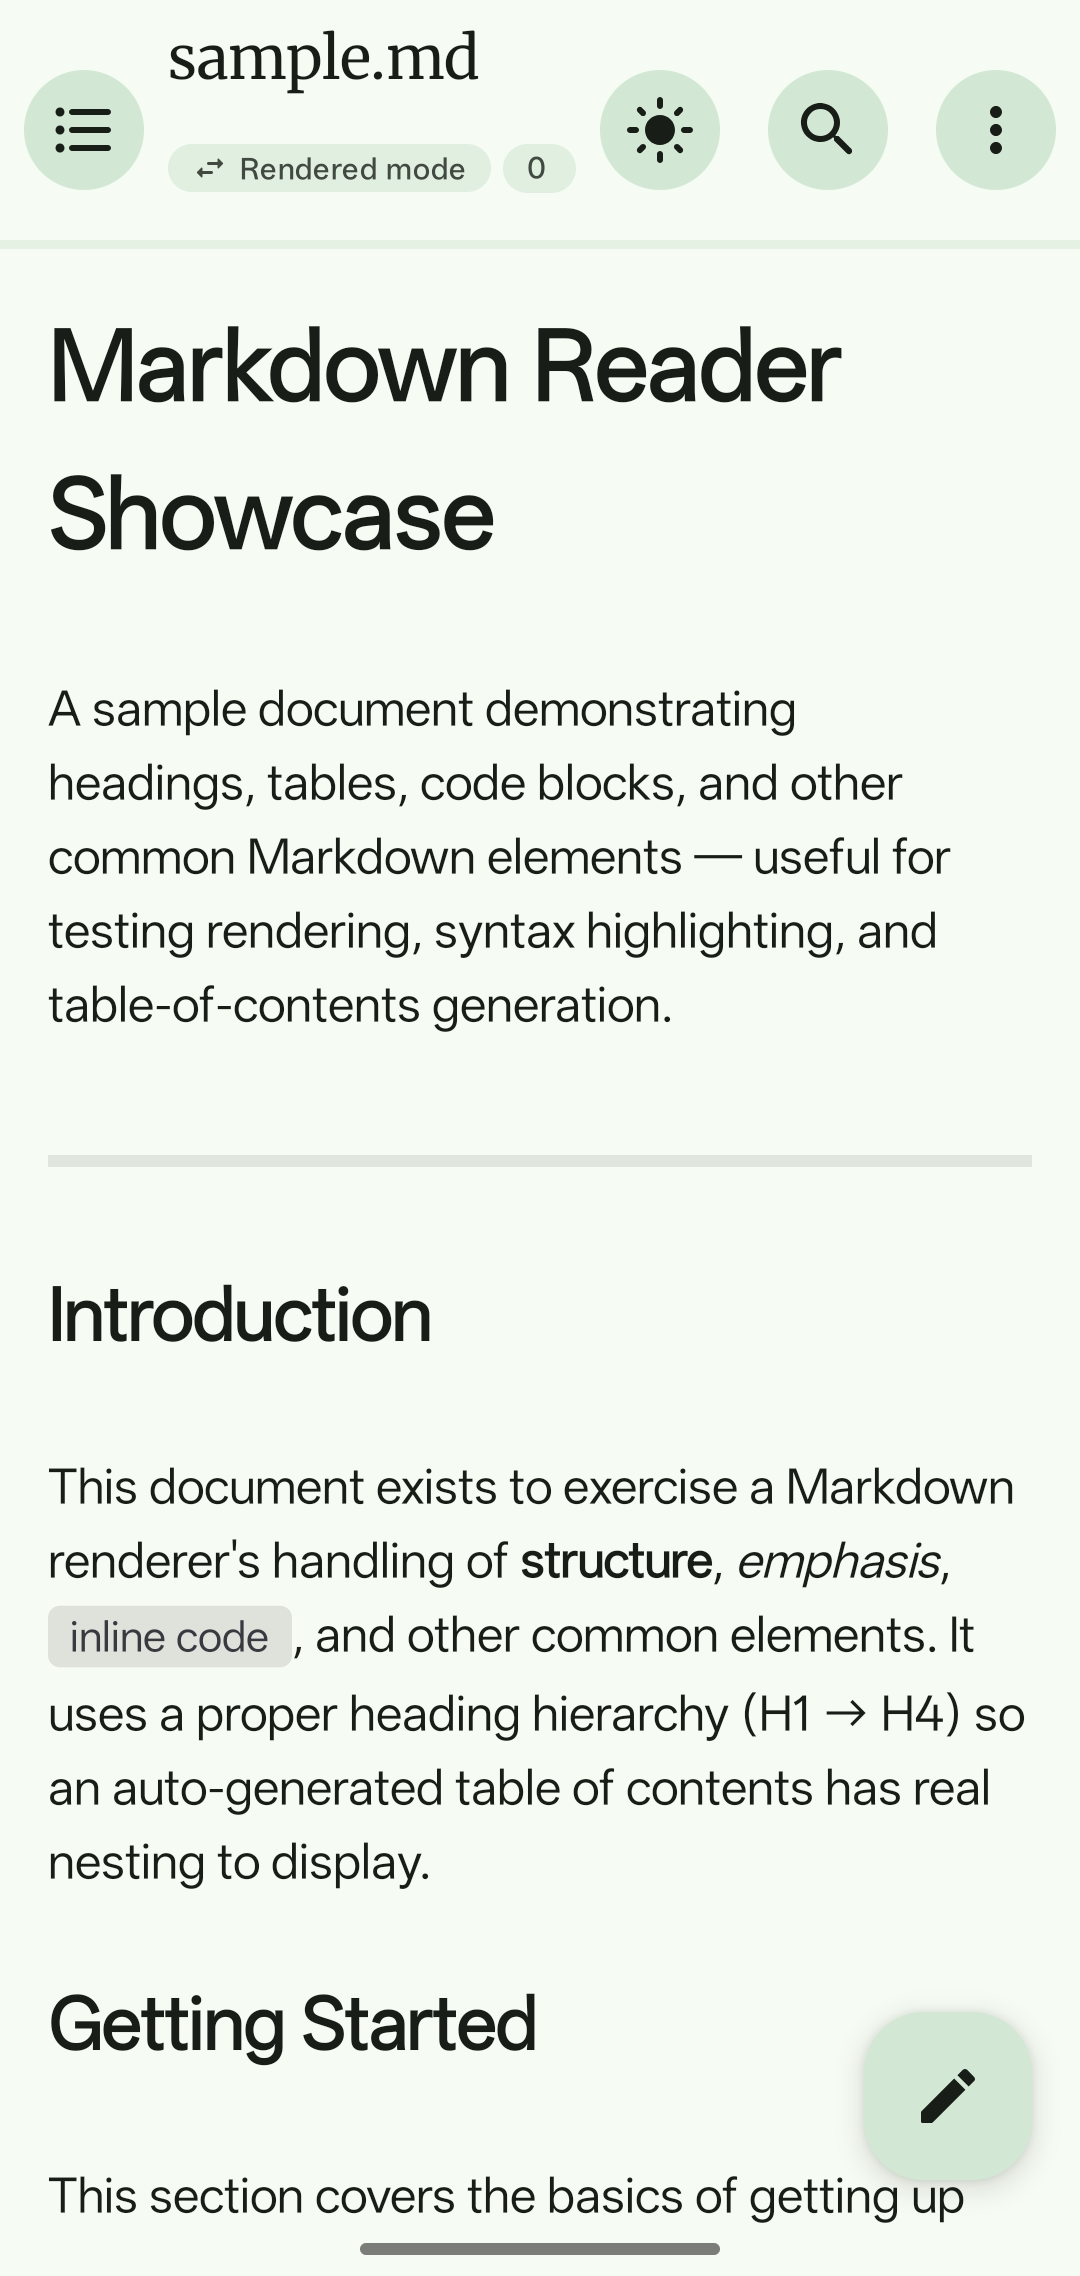
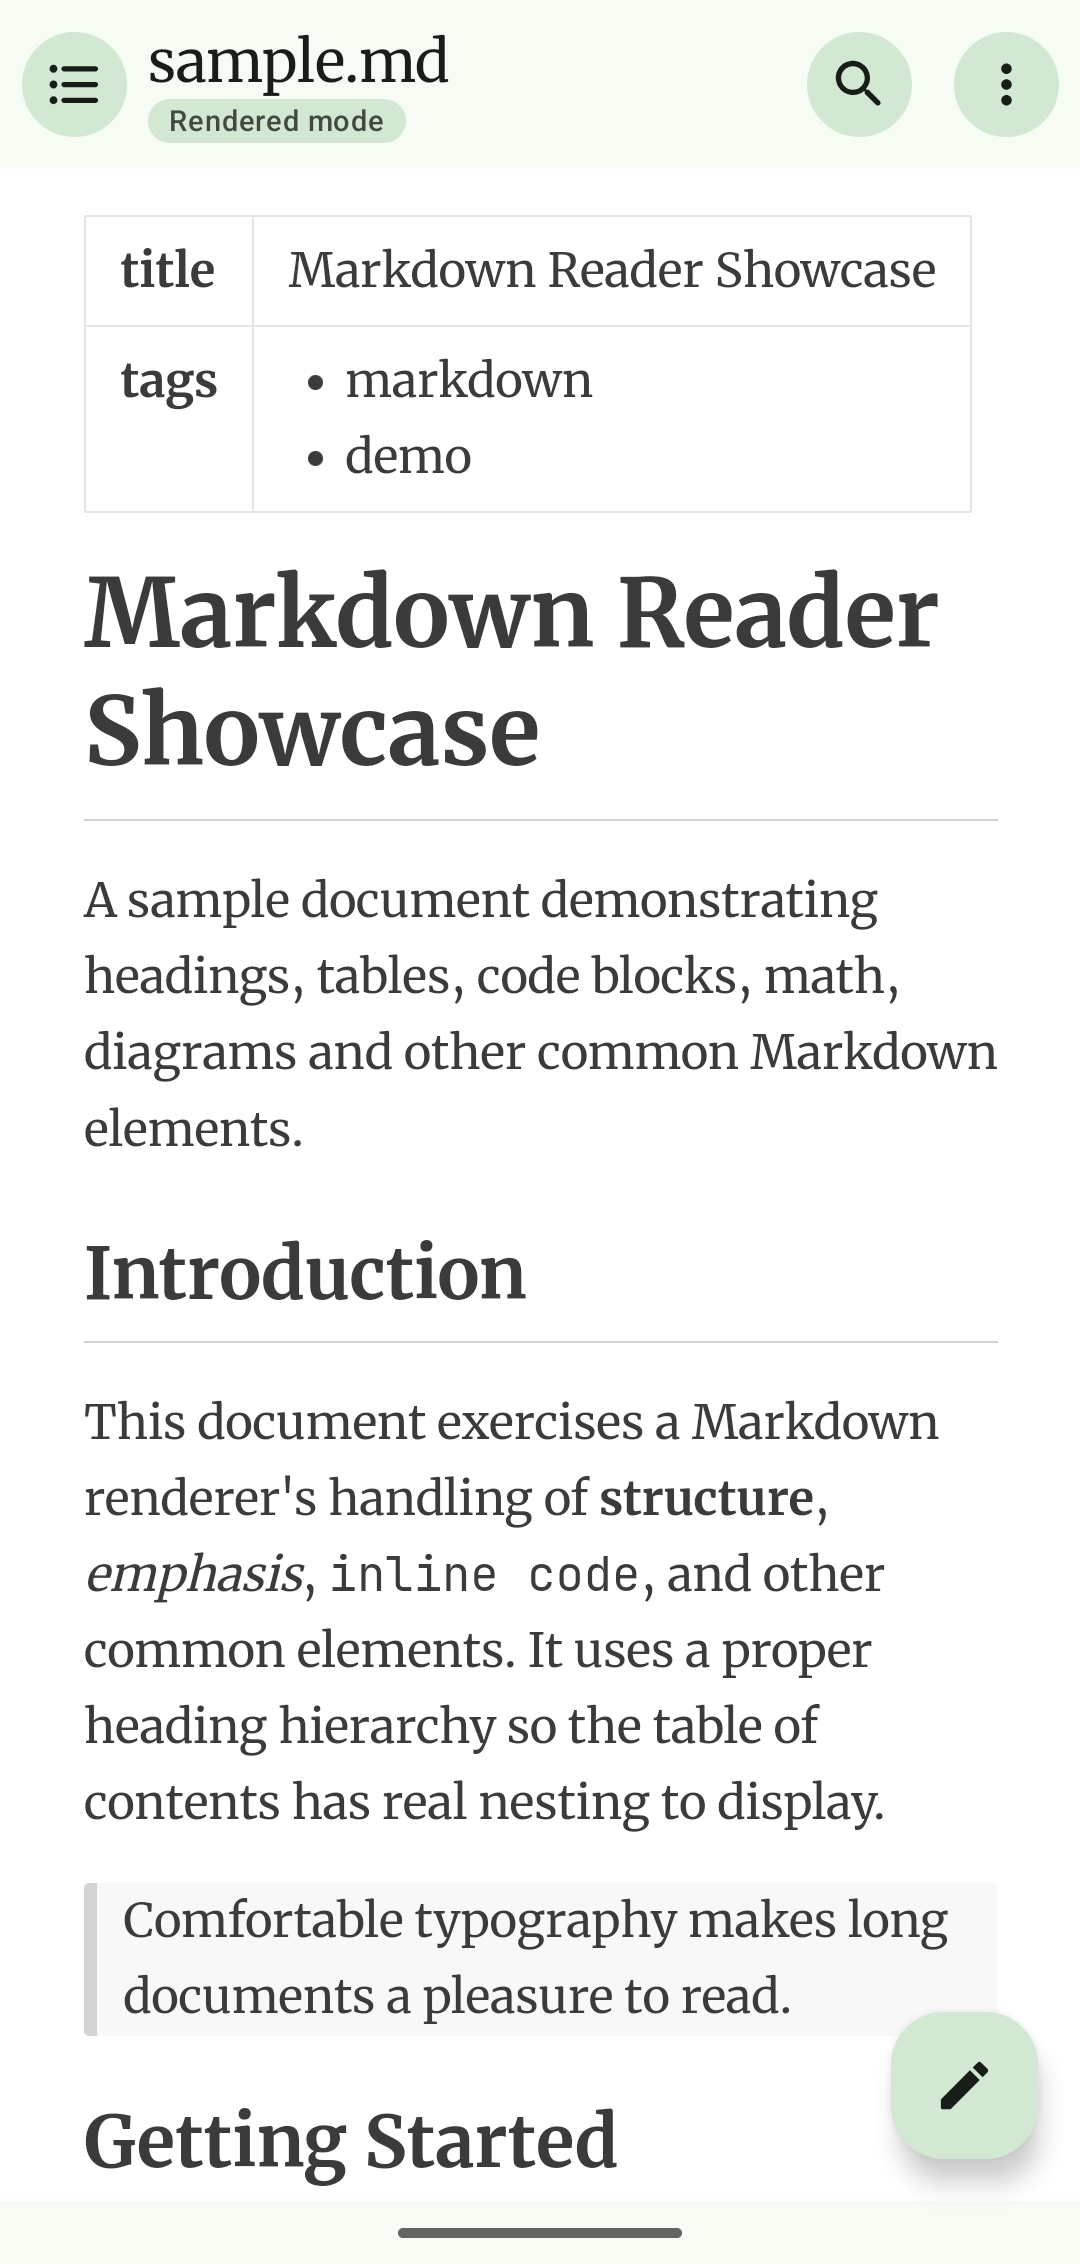
docs: refresh the README and store listing for the shared renderer
The README and the F-Droid/Play listing still described the Markwon and
Prism4j reader, and the screenshots predated the renderer switch.

- README: describe rendering through the shared renderer, math, Mermaid
  diagrams, front matter and the wider highlighting; credit the libraries
  the app now ships instead of Markwon and Prism4j
- Screenshots: retake all six on the current build, add one for code,
  math and diagrams, and order them light first with the dark code viewer
  last; fix captions that named the wrong screen
- Store listing: rewrite the short and full descriptions, shorter and
  led by the terms people search for

diff --git a/README.md b/README.md
@@ -39,18 +39,20 @@ Thank you! This helps us reach far more users than F-Droid and GitHub alone.
 <p align="center">
   <img src="fastlane/metadata/android/en-US/images/phoneScreenshots/1.png" width="200" alt="Home Screen" />
   <img src="fastlane/metadata/android/en-US/images/phoneScreenshots/2.png" width="200" alt="Markdown Viewer" />
-  <img src="fastlane/metadata/android/en-US/images/phoneScreenshots/3.png" width="200" alt="Table of Contents" />
-  <img src="fastlane/metadata/android/en-US/images/phoneScreenshots/4.png" width="200" alt="Code Viewer" />
-  <img src="fastlane/metadata/android/en-US/images/phoneScreenshots/5.png" width="200" alt="Settings" />
-  <img src="fastlane/metadata/android/en-US/images/phoneScreenshots/6.png" width="200" alt="Dark Theme" />
+  <img src="fastlane/metadata/android/en-US/images/phoneScreenshots/3.png" width="200" alt="Code, Math and Diagrams" />
+  <img src="fastlane/metadata/android/en-US/images/phoneScreenshots/4.png" width="200" alt="Table of Contents" />
+  <img src="fastlane/metadata/android/en-US/images/phoneScreenshots/5.png" width="200" alt="Reader Settings" />
+  <img src="fastlane/metadata/android/en-US/images/phoneScreenshots/6.png" width="200" alt="Code Viewer in Dark Theme" />
 </p>
 
 ## Features
 
 ### Reading
 
-- **Markdown rendering** - Headings, emphasis, blockquotes, lists, tables and fenced code blocks
-- **Syntax highlighting** - Source files highlighted for dozens of languages, including Kotlin, Python, JavaScript, Java, C/C++, HTML, CSS, JSON and YAML
+- **Markdown rendering** - The same engine as MarkReader for desktop, styled after VS Code's Markdown preview, with tables, task lists and fenced code blocks
+- **Math and diagrams** - LaTeX math with KaTeX, and Mermaid diagrams
+- **Front matter** - YAML front matter is shown as a table above the document
+- **Syntax highlighting** - Source files and code blocks highlighted for dozens of languages, including Kotlin, Python, JavaScript, Rust, Ruby, Java, C/C++, HTML, CSS, JSON, YAML and TOML
 - **Rendered or raw** - Switch any Markdown file between its rendered view and its source
 - **Search and outline** - Find text in a document and jump between headings from the table of contents
 - **Export and share** - Export a document as PDF or HTML, or share its source
@@ -126,8 +128,13 @@ Contributions are welcome. Use [Issues](https://github.com/usamaiqb/mark-reader/
 
 ## Credits
 
-- [Markwon](https://github.com/noties/Markwon) - Markdown rendering
-- [Prism4j](https://github.com/noties/Prism4j) - Syntax highlighting
+- [markdown-it](https://github.com/markdown-it/markdown-it) - Markdown rendering
+- [highlight.js](https://github.com/highlightjs/highlight.js) - Syntax highlighting
+- [KaTeX](https://github.com/KaTeX/KaTeX) - Math
+- [Mermaid](https://github.com/mermaid-js/mermaid) - Diagrams
+- [DOMPurify](https://github.com/cure53/DOMPurify) - HTML sanitising
+- [yaml](https://github.com/eemeli/yaml) - Front matter
+- [Visual Studio Code](https://github.com/microsoft/vscode) - Markdown preview styling
 - [Merriweather](https://github.com/SorkinType/Merriweather), [Merriweather Sans](https://github.com/SorkinType/Merriweather-Sans) and [JetBrains Mono](https://github.com/JetBrains/JetBrainsMono) - Bundled fonts
 
 License notices are in [licenses/THIRD_PARTY_LICENSES.md](licenses/THIRD_PARTY_LICENSES.md).
